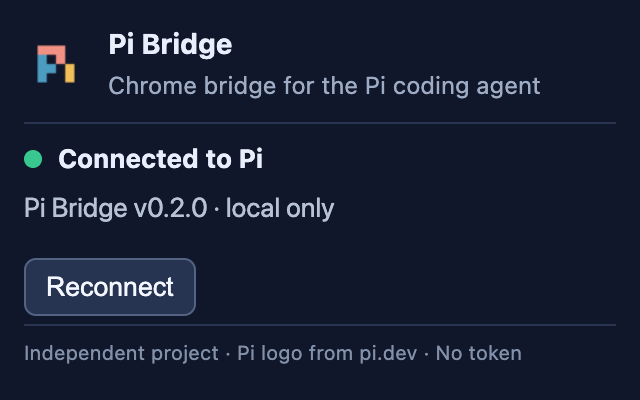
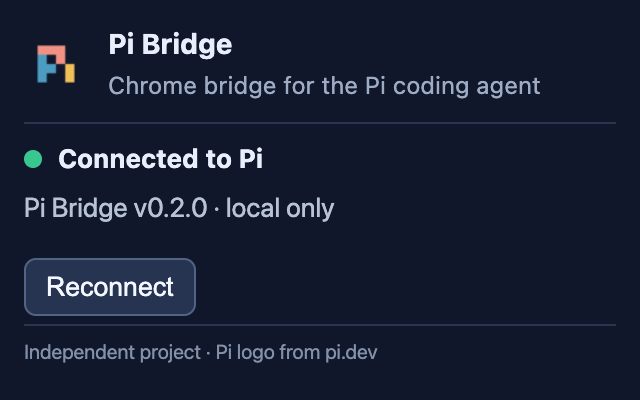
Remove token claims from listing descriptions

Changed region(s): [[0.0312, 0.84, 0.8125, 0.93]]

diff --git a/extension/popup.html b/extension/popup.html
@@ -16,7 +16,7 @@
       <p id="detail">Start a Pi session to connect.</p>
       <button id="reconnect" type="button">Reconnect</button>
     </main>
-    <footer>Independent project · Pi logo from pi.dev · No token</footer>
+    <footer>Independent project · Pi logo from pi.dev</footer>
     <script src="popup.js"></script>
   </body>
 </html>

diff --git a/README.md b/README.md
@@ -1,6 +1,6 @@
 # Pi Bridge
 
-**Chrome browser tools for the Pi coding agent—no token or port to enter.** This repository installs a bridge plugin into an existing Pi installation and provides a separate Chrome extension; it does not install Pi itself.
+**Chrome browser tools for the Pi coding agent.** This repository installs a bridge plugin into an existing Pi installation and provides a separate Chrome extension; it does not install Pi itself.
 
 This is an independent community project. It is not produced, sponsored, or endorsed by Pi's maintainers or Google. “Pi” is used only to describe compatibility.
 
@@ -26,7 +26,7 @@ The bridge does not expose arbitrary page JavaScript, cookies, local storage, or
 
 2. The Chrome Web Store listing for **Pi Bridge** has been submitted for review. For development or testing the 0.2.0 update, clone this repository, open `chrome://extensions`, enable Developer mode, and load the `extension/` directory as an unpacked extension.
 3. In Chrome, approve the extension's site access. Browser automation needs access to pages you ask Pi to work with.
-4. Restart Pi or run `/reload`. When Pi is running, the extension connects automatically. No pairing token or port entry is required.
+4. Restart Pi or run `/reload`. When Pi is running, the extension connects automatically.
 
 Use `list_tabs` to inspect IDs in the current window, `create_workspace` to create a named Pi Bridge group with a background tab, and `list_workspaces` to find its ID. Pass `workspace_id` to `create_tab` and the returned `tab_id` to page tools. `read_urls` reads and closes temporary background tabs without changing the selected tab. Screenshots require the target tab to already be active and visible; Pi Bridge will not switch focus to capture a background tab.
 
@@ -62,7 +62,7 @@ The extension is named **Pi Bridge**; its description identifies it as a Chrome 
 
 - The MCP server binds only to `127.0.0.1` and accepts WebSocket connections only from a Chrome extension origin.
 - On first connection, the Pi server automatically pins that extension's ID in a mode-`0600` file under the Pi agent directory. It accepts reconnects from the same extension and rejects a different one. Reset this pairing only when intentionally replacing the extension.
-- No token is displayed, copied, or typed by the user. The bridge uses the local browser's extension-origin boundary and loopback binding instead.
+- Pairing uses the local browser's extension-origin boundary and loopback binding.
 - Page text and screenshots are returned to Pi's model context. Only run the bridge with models and Pi packages you trust.
 - This design does not defend against malicious software already running as the same operating-system user; such a process can access the local account and spoof loopback traffic.
 - The extension requests broad access to HTTP and HTTPS pages and the `tabGroups` permission so it can create and manage its own named workspace groups. Chrome displays these permissions, and users can narrow site access in the extension's Details page. Browser-internal pages and the Chrome Web Store remain restricted by Chrome. It does not request cookie, debugger, or user-script permissions and sends no telemetry.

diff --git a/docs/chrome-web-store-listing.md b/docs/chrome-web-store-listing.md
@@ -4,7 +4,7 @@
 
 **Name:** Pi Bridge
 
-**Short description:** Chrome bridge for the Pi coding agent on this computer; no token to enter.
+**Short description:** Chrome bridge for the Pi coding agent on this computer.
 
 **Category:** Developer Tools
 
@@ -24,7 +24,7 @@ With Pi and the Pi Bridge extension installed, you can ask Pi to:
 - Navigate, click, fill ordinary form fields, press keys, scroll, and wait for page updates in a selected tab.
 - Capture the visible tab as a screenshot. Pi Bridge will not switch focus to capture a background tab.
 
-Pairing happens automatically over a local connection. No token or port needs to be entered.
+Pairing happens automatically over a local connection.
 
 Privacy and safety:
 
